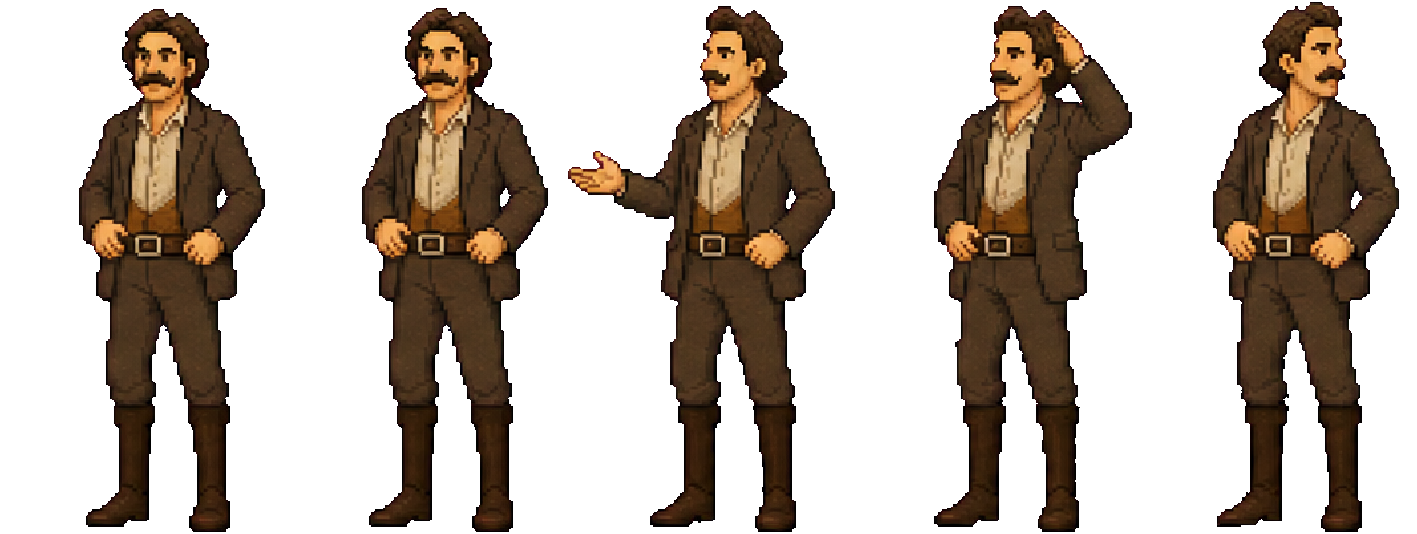
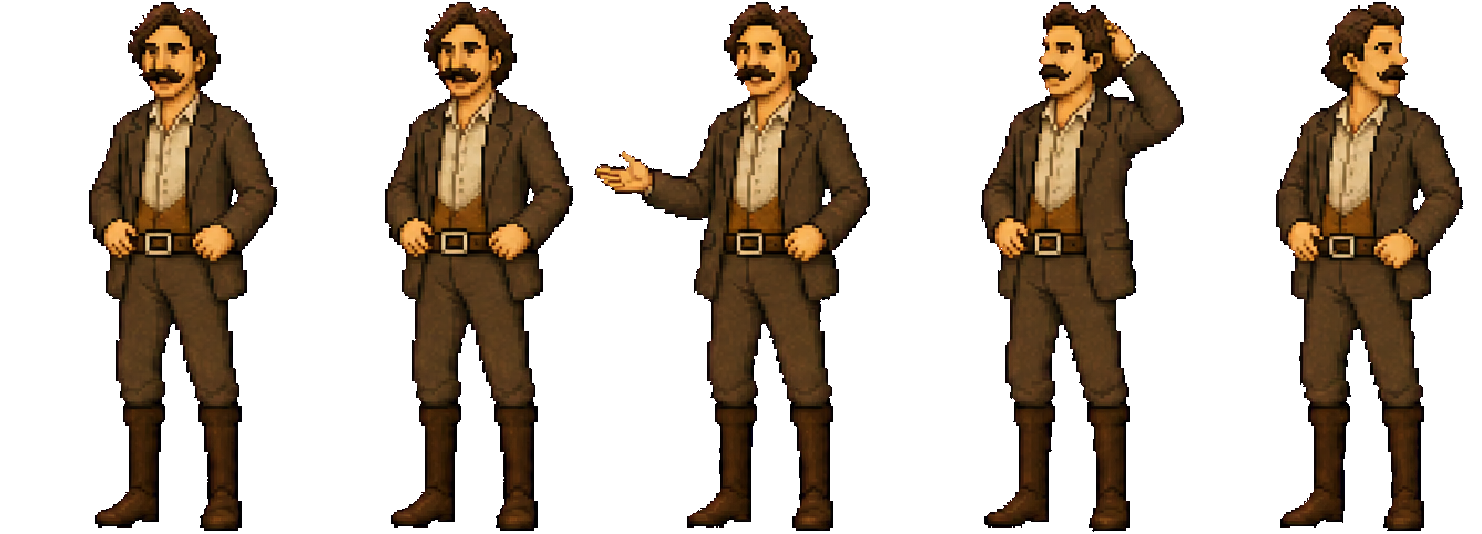
Deke at the cast sheet's level: the Nugget, the back room and his walk out
Errata 102 F. Cast-unify 39, his old poses drawn from his cast-sheet self.

Lesson: none -- a redraw at Tyler's ruling, held by the figure and staging checks.

Claude-Session: https://claude.ai/code/session_01FXbCupzwLJAEr7fqqWYP8A

diff --git a/docs/00-errata.md b/docs/00-errata.md
@@ -2805,3 +2805,5 @@ What Tyler still decides: acceptance of the art (errata 72 E, at the full playth
 **D · Thad rebuilt at the cast sheet's level.** His four standing sources (`reference/casting/thad-stand-{right,left,front,back}-src.png`) are redrawn from the cast sheet in the same poses (cast-unify 33, 34: the first side views had their legs as one column, which the rig refuses), fitted to the old sources' figure size and feet (`tools/art/thad-sources.py`), and every rigged clip is rebuilt with the arguments its own rig.json recorded (`tools/art/thad-rebuild.py`: stand, idle, idle-break, recoil, tug, strain, wrench, walk-back, walk-front from a redrawn front stride, and the far-walk silhouette). His seven actions take one sheet of key poses (cast-unify 35; `tools/art/thad-chores.py`, the stand reseated on both ends), the look up at the driver its measured breath on the new pose (`tools/art/thad-lookup.py`), and both side walks a redrawn six-frame cycle (cast-unify 36; `tools/art/thad-walks.py`). Every frame is despilled (`tools/art/despill-frames.py`). The old sources and clips are kept in art/staging/thad-b/. The three `thad-talk-*` overlays are not redrawn: nothing in the game plays them (the rig check reports them unread). The card sharp's talk stand moves 7 px, the new profile being a little wider at the feet. Thirty-six of seventy-five operations used.
 
 **E · Hob rebuilt at the cast sheet's level, everywhere.** One sheet (cast-unify 37) gives his standing pose and a four-frame walk, lantern in every figure; `tools/art/hob-b.py` fits the pose into his rig source and rebuilds stand, idle and idle-break with their recorded arguments, and seats the walk on its old canvases with the lantern's light anchor moved with the lantern. The alley and shack sheets are rebuilt from the new idle by their own scripts (`tools/art/room20-hob.py`, `room21-hob.py`). The funeral's Hob is redrawn from the new Hob's own frame, bareheaded with his hat in his hand and his lantern (cast-unify 38), and leaves on the new walk. Thirty-eight of seventy-five operations used.
+
+**F · Deke rebuilt at the cast sheet's level.** One sheet (cast-unify 39): his four standing poses and a six-frame walk with his hat on, cut for the Nugget (428), the back room (530) and his walk out. He moves 4 px along the bar and the card sharp's talk stand 8 px, the new drawing standing a little wider. Thirty-nine of seventy-five operations used.
